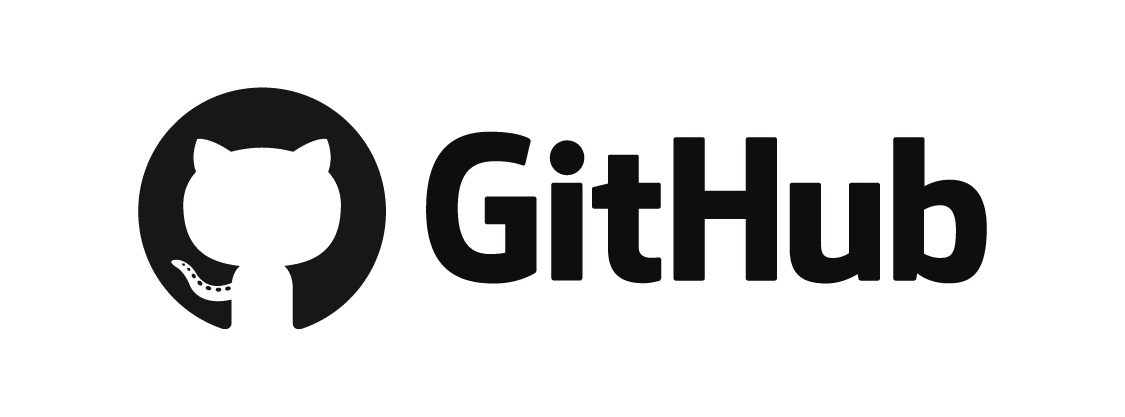
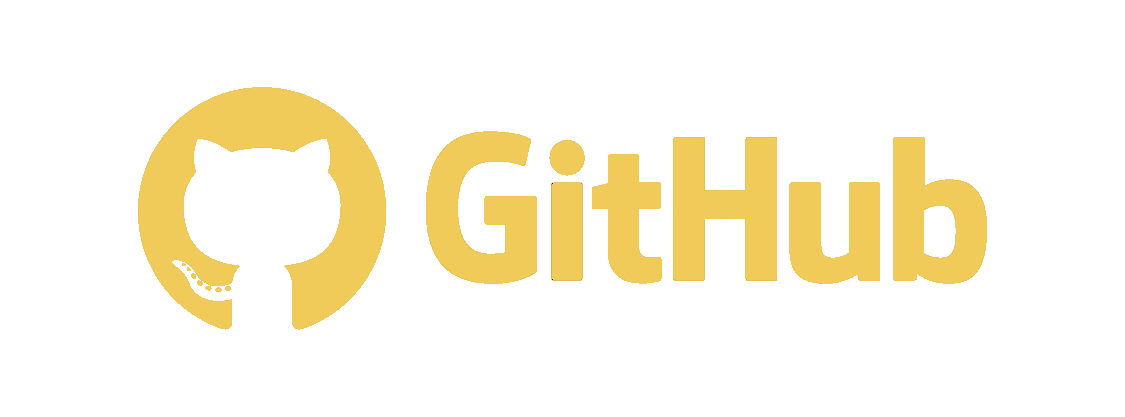
feat: changed lang-btn

Changed region(s): [[0.3733, 0.3118, 0.9022, 0.6859], [0.1244, 0.1871, 0.3422, 0.8106]]

diff --git a/index.html b/index.html
@@ -14,8 +14,11 @@
 <body>
     <header class="header">
         <nav class="nav">
-            <div class="container">
+            <div class="container container-nav">
                 <ul class="nav__menu">
+                    <li class="btn-lan">
+                        EN
+                    </li>
                     <li class="nav__menu-item">
                         <a class="nav__menu-link" href="#profile">aboutMe</a>
                     </li>
@@ -37,10 +40,6 @@
                     <li class="nav__menu-item">
                         <a class="nav__menu-link" href="#projectszone">ProjectsZone</a>
                     </li>
-
-                    <div class="btn-lan">
-                        EN
-                    </div>
                 </ul>
             </div>
         </nav>
@@ -243,8 +242,8 @@
                 </p>
             </div>
             <div class="footer__rsschool">
-                <a href="https://rs.school/js/">
-                    <img class="footer__rsschool-img" src="img/icon/github.svg" alt="github">
+                <a href="https://github.com/romanjhyltsou">
+                    <img class="footer__rsschool-img" src="img/github.png" alt="github">
                 </a>
             </div>
         </div>

diff --git a/css/style.css b/css/style.css
@@ -37,13 +37,14 @@ body {
     max-width: 1360px;
     margin: 0 auto;
 }
-
 .nav__menu{
     font-family: 'Montserrat-Regular';
     font-size: 14px;
     position: absolute;
     display: flex;
+    align-items: center;
     max-width: 820px;
+    width: 100%;
     left:50%;
     top:30px;
     transform:translate(-50%, -50%);
@@ -62,15 +63,16 @@ body {
     justify-content: space-between;
 }
 .btn-lan{
-    margin-left: 20px;
+    margin-right: 20px;
     font-family: 'Montserrat-Regular';
     font-size: 14px;
     background:#f7f8ff;
     padding: 1px 20px;
-    width: 100px;
+    width: 24px;
     border: 1px solid #f5e6b8;
     cursor: pointer;
 }
+
 .main{
     min-height: 600px;
     background-color:#f7f8ff;
